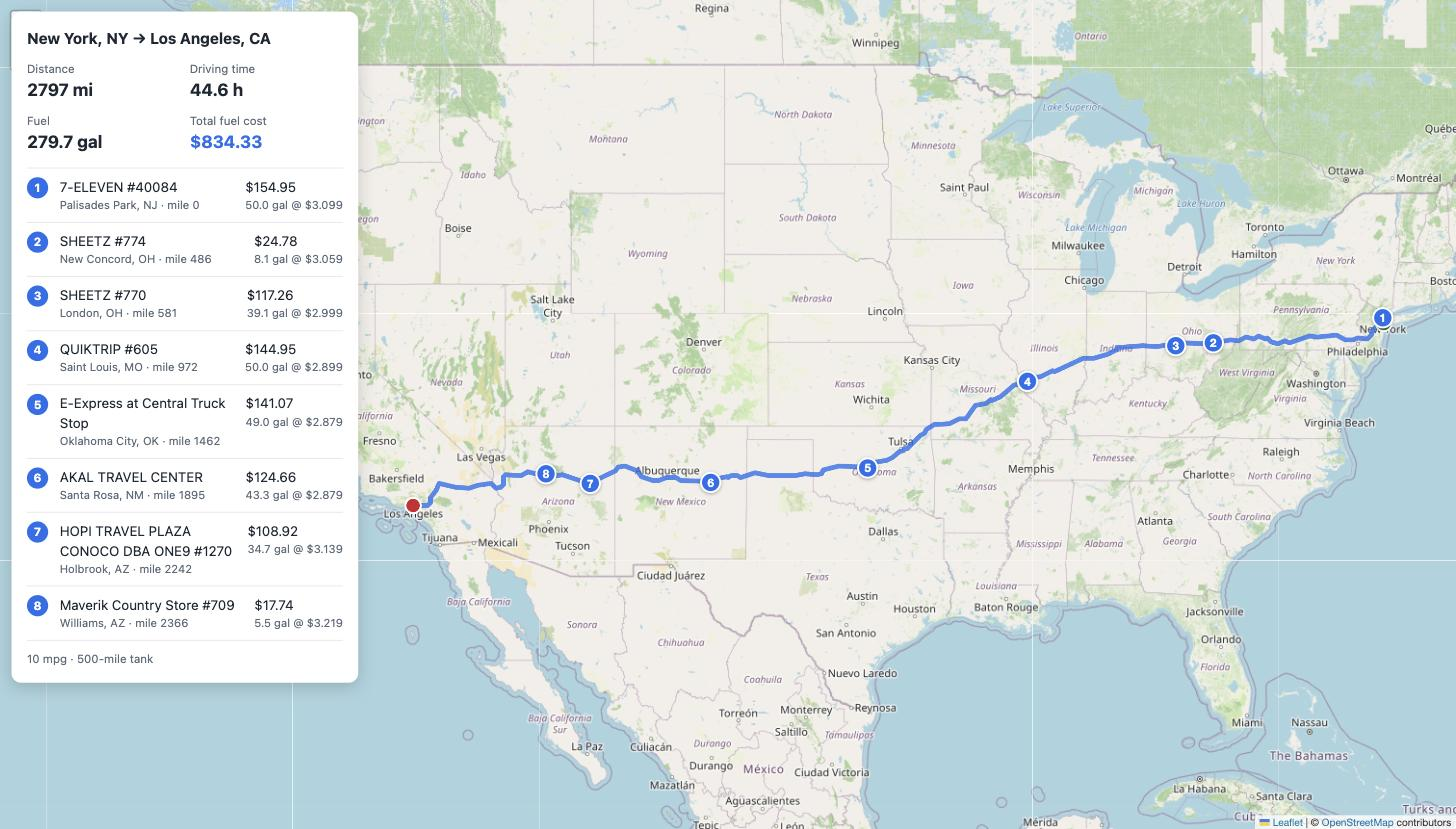
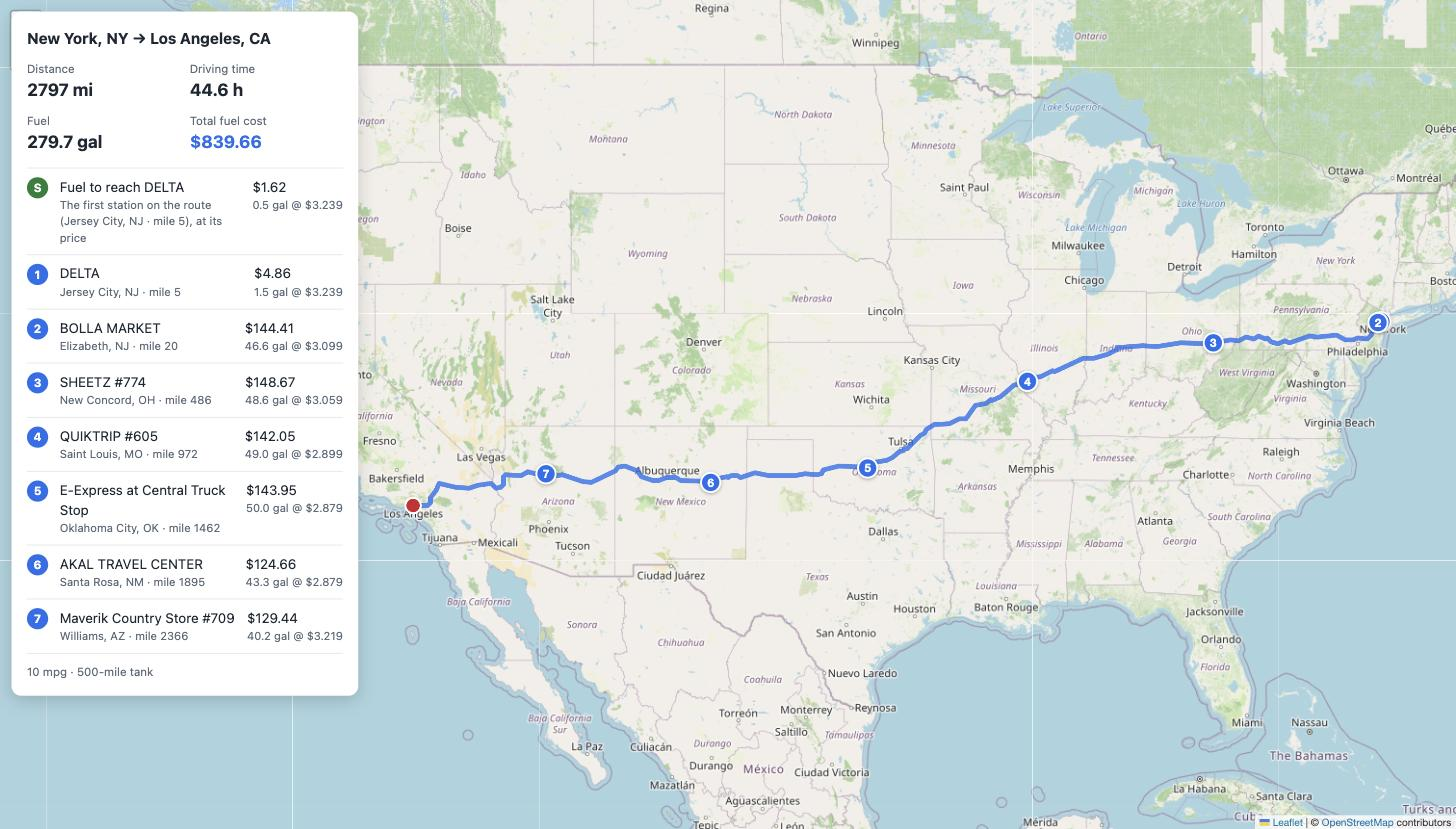
docs: update README, Postman and screenshot for the new stop rules
- README: starting fuel, the $3-per-stop rule, the Chicago example,
  performance numbers, and why Canadian stations are left out
- Postman: Houston -> Dallas request now describes the first-station rule
- Screenshot: New York -> Los Angeles with its 7 stops

diff --git a/README.md b/README.md
@@ -8,11 +8,11 @@ GET /api/v1/route-plan/?start=New York, NY&finish=Los Angeles, CA
 
 returns the route, where to stop and how much fuel to buy at each stop, the total fuel cost, and a link to the route on a map.
 
-![New York to Los Angeles: the route and its 8 fuel stops](docs/map-new-york-to-los-angeles.jpg)
+![New York to Los Angeles: the route and its 7 fuel stops](docs/map-new-york-to-los-angeles.jpg)
 
 - **One routing API call per new trip**, none for a trip planned before (cached).
-- **Fast:** about 1–1.5 s for a new cross-country trip (almost all of it the routing call), 10–60 ms when cached.
-- **Cost-effective:** the fuel-stop algorithm finds the cheapest plan (a test checks it against brute force). By default it skips stops that would save under 5¢/gal, which keeps plans within a few dollars of the cheapest with fewer stops.
+- **Fast:** about 1–1.5 s for a new cross-country trip (almost all of it the routing call), 5–75 ms when cached.
+- **Cost-effective:** the fuel-stop algorithm finds the cheapest plan (tests check it against brute force), then skips any stop that saves less than $3, so plans stay within a few dollars of the cheapest with far fewer stops.
 
 ## Contents
 
@@ -68,36 +68,35 @@ Response (Chicago → Denver; route coordinates and stops shortened):
     "miles_per_gallon": 10,
     "tank_range_miles": 500,
     "total_gallons": 100.33,
-    "total_cost_usd": 292.12,
-    "starts_with_full_tank": false,
+    "total_cost_usd": 293.17,
     "starting_fuel": null
   },
   "fuel_stops": [
     {
       "stop_number": 1,
+      "station_id": 73127,
+      "name": "Gas N Wash",
+      "address": "I-55, EXIT 285",
+      "city": "Chicago",
+      "state": "IL",
+      "lat": 41.850033,
+      "lng": -87.6500523,
+      "route_mile": 0.0,
+      "price_per_gallon": 3.399,
+      "gallons": 1.6,
+      "cost_usd": 5.44
+    },
+    {
+      "stop_number": 2,
       "station_id": 70180,
       "name": "Gulf",
       "address": "SR-83",
       "city": "Bensenville",
       "state": "IL",
-      "lat": 41.9550296,
-      "lng": -87.9400657,
-      "route_mile": 0.0,
+      "route_mile": 16.0,
       "price_per_gallon": 3.059,
-      "gallons": 20.3,
-      "cost_usd": 62.1
-    },
-    {
-      "stop_number": 2,
-      "station_id": 67395,
-      "name": "KUM & GO #0267",
-      "address": "I-80, EXIT 267 & SR 38",
-      "city": "Tipton",
-      "state": "IA",
-      "route_mile": 203.0,
-      "price_per_gallon": 2.98233333,
-      "gallons": 26.2,
-      "cost_usd": 78.14,
+      "gallons": 18.7,
+      "cost_usd": 57.2,
       "...": "..."
     }
   ],
@@ -109,7 +108,7 @@ Response (Chicago → Denver; route coordinates and stops shortened):
 - `fuel_stops` are in driving order; `route_mile` is how far along the route each stop is.
 - `route` is GeoJSON (`[lng, lat]` pairs), thinned to at most 1,000 points to keep responses small (~20 KB).
 - `price_per_gallon` is the exact price from the price list (up to 8 decimals), so `gallons × price_per_gallon` rounds to `cost_usd`.
-- `starting_fuel` is `null` unless the trip starts on a full tank (see [Assumptions](#assumptions)). Then it holds the gallons used from that tank and their cost, charged at the first station along the route (`priced_at`).
+- `starting_fuel` is the fuel used to reach the first station along the route, charged at that station's price (`priced_at`); see [Assumptions](#assumptions). It's `null` when the first station is right at the start.
 - `total_cost_usd` is the sum of the stops' `cost_usd` plus `starting_fuel.cost_usd`.
 
 ### `GET /api/v1/route-plan/map/`
@@ -130,7 +129,7 @@ Every error has the same shape:
 | 400 | `invalid_location` | Unknown town, coordinates outside the USA, or latitude/longitude swapped (the message suggests the fix) |
 | 405 | `method_not_allowed` | Anything but `GET` |
 | 422 | `no_route` | The routing service found no drivable route |
-| 422 | `no_fuel_plan` | A stretch longer than 500 miles has no known fuel station; the message says between which miles |
+| 422 | `no_fuel_plan` | No station from the price list along the route, or a stretch longer than 500 miles without one; the message says between which miles |
 | 502 | `routing_failed` | The routing service failed; trying again may help |
 | 503 | `routing_unavailable` | Routing is unavailable: rate limit, used-up daily quota, rejected or missing API key |
 | 504 | `routing_timeout` | The routing service took too long to respond |
@@ -143,24 +142,24 @@ Every error has the same shape:
 
 1. **Resolve start and finish** from the local town table (`"Chicago, IL"` → coordinates). Bad input is rejected here, before any API call.
 2. **Get the route** from OpenRouteService: **one call**, cached for 24 hours.
-3. **Find stations along the route** ([`station_search.py`](planner/services/station_search.py)): resample the route to one point per mile, query the stations inside its bounding box, and measure each one's distance to the route with a KD-tree. Keep those within 10 miles, with their mile marker, and only the cheapest in each 25-mile stretch.
-4. **Choose fuel stops** ([`fuel_planner.py`](planner/services/fuel_planner.py)). The tank starts empty and is filled at the cheapest station near the start (or, with no station nearby, starts full; see [Assumptions](#assumptions)). Then, at each station:
+3. **Find stations along the route** ([`station_search.py`](planner/services/station_search.py)): resample the route to one point per mile, query the stations inside its bounding box, and measure each one's distance to the route with a KD-tree. Keep those within 10 miles, with their mile marker.
+4. **Choose fuel stops** ([`fuel_planner.py`](planner/services/fuel_planner.py)). The trip starts with just enough fuel to reach the first station along the route (see [Assumptions](#assumptions)). Then, at each station:
    1. If a **cheaper** station is within range, buy just enough fuel to reach it.
    2. Otherwise, if the finish is within range, buy just enough to finish.
    3. Otherwise, fill the tank and drive to the cheapest station within range.
 
-   This is the cheapest possible plan: fuel is never carried past a cheaper station, and when everything in reach is pricier, filling up buys as much cheap fuel as the tank holds. Tests compare it with a brute-force search on hundreds of random routes, starting both empty and full.
+   This is the cheapest possible plan: fuel is never carried past a cheaper station, and when everything in reach is pricier, filling up buys as much cheap fuel as the tank holds. Tests compare it with a brute-force search on hundreds of random routes.
 
-   Saving a cent or two isn't worth an extra stop, so a station must be at least **5¢/gal cheaper** (`MIN_SAVING_PER_GALLON`) to count as cheaper. On New York → Los Angeles this gives 8 stops for $834 instead of 11 stops for $832. Set it to `0` for the strictly cheapest plan.
+5. **Skip stops that aren't worth it.** Saving a dollar or two isn't worth an extra stop. For each stop, the planner tries driving straight past it (from the stop before to the stop after, without stopping in between). If that plan has fewer stops and costs less than **$3 more per stop skipped** (`MIN_SAVING_PER_STOP`), it's kept. On New York → Los Angeles this gives 7 stops for $840 instead of 12 stops for $832. Set it to `0` for the strictly cheapest plan.
 
 ## Assumptions
 
-- The tank **starts empty** and is filled at the cheapest station within 25 miles of the start, so every gallon of the trip is paid for and the total is the real trip cost.
-- If no station is that close (the price list has none near Houston or Los Angeles, for example), the trip starts with a **full tank** (`starts_with_full_tank: true`). The fuel used from it is still paid for: it's charged at the price of the first station along the route and shown as `starting_fuel`. This doesn't change which stops are chosen, because a full starting tank is always used up to the trip length or 500 miles.
+- The trip starts with **just enough fuel to reach the first station along the route**, and that's the first stop. The fuel used to get there is charged at that station's price (`starting_fuel`), so every gallon of the trip is paid for and the total is the real trip cost. For example, the price list has no station in Houston, so Houston → Dallas first stops in Huntsville, 69 miles in. Because you arrive at the first station nearly empty, the first stop can be small: in Chicago, 1.6 gallons to reach a station 34¢ cheaper 16 miles on.
 - The vehicle arrives at the finish with an empty tank.
 - A station is "on the way" if it's within 10 miles of the route. The short detour to reach it isn't added to the fuel needed.
 - Stations are placed at the center of their town (the price list has no coordinates), which is accurate to a few miles.
 - When a station is listed more than once with different prices, the lowest price is used.
+- **Only US stations are used.** The price list also has 112 Canadian stations, but they're left out: trips between two US places rarely pass through Canada (the drive to Alaska and Detroit → Buffalo are the main exceptions), the town data used to place stations covers the US only, and the list doesn't say which currency the Canadian prices are in.
 - All tuning values live in one commented section of [`config/settings.py`](config/settings.py).
 
 ## Design decisions
@@ -171,7 +170,7 @@ Every error has the same shape:
 | Start/finish as `City, ST` or `lat,lng` | Resolved locally, so no geocoding API call | Street addresses aren't supported |
 | OpenRouteService for routing | Free, reliable, returns the full route geometry in one call | Needs a free API key with a daily request quota; caching keeps repeat trips from using it |
 | Cache routes (Django cache, 24 h) | Repeat trips and the map page cost no API call | Local-memory cache per process; point `CACHES` at Redis to share it |
-| Greedy fuel planner, plain Python | Exactly cheapest at a 0¢ margin, easy to read, fully unit-tested without Django | The default 5¢ margin trades a few dollars for fewer stops |
+| Greedy fuel planner, plain Python | Provably cheapest, easy to read, fully unit-tested without Django | Skipping stops worth under $3 trades a few dollars for far fewer stops |
 | KD-tree to find stations near the route | ~20,000 route points × thousands of stations in milliseconds | Adds SciPy |
 | SQLite, no PostGIS | Clone and run with no database setup | Spatial queries are done in Python (fast enough at this size) |
 | Thin views, logic in `planner/services/` | Each module has one job and its own tests | — |
@@ -182,26 +181,27 @@ Measured locally with real data and the real routing API, starting from an empty
 
 | Trip | Distance | First request | Cached | Stops | Fuel cost |
 |---|---|---|---|---|---|
-| New York, NY → Los Angeles, CA | 2,797 mi | 1.45 s | 24 ms | 8 | $834.33 |
-| Seattle, WA → Miami, FL | 3,319 mi | 1.42 s | 63 ms | 15 | $1,009.14 |
-| Atlanta, GA → Phoenix, AZ | 1,853 mi | 1.23 s | 14 ms | 5 | $536.59 |
-| Chicago, IL → Denver, CO | 1,003 mi | 1.06 s | 11 ms | 4 | $292.12 |
-| Dallas, TX → Houston, TX | 240 mi | 0.76 s | 7 ms | 1 | $66.19 |
+| New York, NY → Los Angeles, CA | 2,797 mi | 1.59 s | 28 ms | 7 | $839.66 |
+| Seattle, WA → Miami, FL | 3,319 mi | 1.50 s | 64 ms | 10 | $1,015.38 |
+| Atlanta, GA → Phoenix, AZ | 1,853 mi | 1.22 s | 13 ms | 6 | $536.21 |
+| Chicago, IL → Denver, CO | 1,003 mi | 1.13 s | 9 ms | 4 | $293.17 |
+| Houston, TX → Dallas, TX | 240 mi | 0.80 s | 5 ms | 1 | $71.53 |
 
-Most of a first request is the routing call; everything else (station search and fuel planning) takes about 30 ms even coast to coast.
+Most of a first request is the routing call; everything else (station search and fuel planning) takes under 80 ms even coast to coast.
 
 ## Testing
 
 ```bash
 pip install -r requirements-dev.txt
-python manage.py test   # 142 tests, under a second; the routing API is mocked
+python manage.py test   # 139 tests, under a second; the routing API is mocked
 ruff check .            # lint
 ruff format --check .   # formatting
 ```
 
 Highlights:
 
-- **The fuel planner matches a brute-force search** on 400 random routes (starting empty and full). Breaking any of its three rules makes that test fail.
+- **The fuel planner matches a brute-force search** on 400 random routes (with and without a station at the start). Breaking any of its three rules makes that test fail.
+- **Skipping stops is tested both ways:** a version that never skips, or that ignores the minimum saving, fails the tests.
 - **API tests check that a new trip makes exactly one routing call, and a repeat makes none.**
 - Data tests use real rows from the Census and USGS files (San Francisco, Honolulu, same-named towns in one county, and more).
 
@@ -254,7 +254,7 @@ python manage.py build_towns_file \
 
 ## Limitations and next steps
 
-- **Coverage of the price list.** Some regions have few stations. California has only 8, all in the far south-east, so a trip like San Francisco → Las Vegas has a 536-mile stretch with no known station and returns a clear `no_fuel_plan` error.
+- **Coverage of the price list.** Some regions have few stations. California has only 8, all in the far south-east, so a trip like San Francisco → Las Vegas (a 536-mile stretch with no known station) or Los Angeles → San Diego (no station at all) returns a clear `no_fuel_plan` error.
 - **Shared cache.** The default cache is per process. With several server processes, point `CACHES` at Redis so a route fetched by one is reused by all.
 - **Street addresses.** Supporting them would need a geocoding call per request (still within 3 external calls).
 - **Production hardening** (HTTPS settings, rate limiting, a production server such as Gunicorn) is out of scope here.
